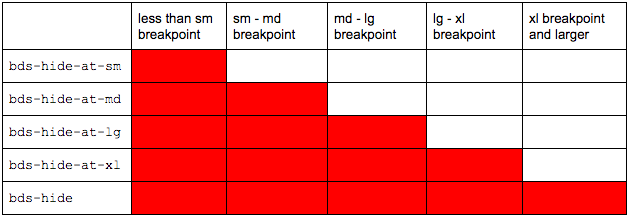
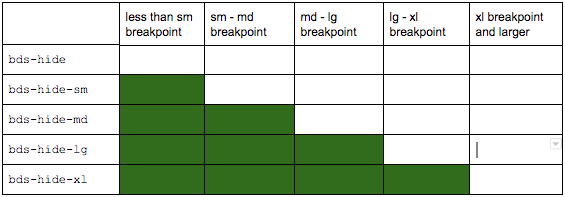
updated show hide classes

diff --git a/design_system/index.html b/design_system/index.html
@@ -182,6 +182,7 @@
                 <u>background</u>: 
                   <ul>
                     <li>bds-bg</li>
+                    <li>bds-bg-lg</li>
                     <li>bds-hov-bg</li>
                   </ul>
 
@@ -652,20 +653,24 @@
                 <u>Hiding</u>: 
                   <ul>
                     <li>bds-hide</li>
-                    <li>bds-hide-at-sm</li>
-                    <li>bds-hide-at-md</li>
-                    <li>bds-hide-at-lg</li>
-                    <li>bds-hide-at-xl</li>
+                    <li>bds-hide-sm</li>
+                    <li>bds-hide-md</li>
+                    <li>bds-hide-lg</li>
+                    <li>bds-hide-xl</li>
                   </ul>
               </div>
 
               <div class="bds-col">
                 <u>Showing</u>: 
-                  <ul><br>
-                    <li>bds-show-at-sm</li>
-                    <li>bds-show-at-md</li>
-                    <li>bds-show-at-lg</li>
-                    <li>bds-show-at-xl</li>
+                  <ul>
+                    <li>bds-block-sm</li>
+                    <li>bds-block-md</li>
+                    <li>bds-block-lg</li>
+                    <li>bds-block-xl</li>
+                    <li>bds-inline-block-sm</li>
+                    <li>bds-inline-block-md</li>
+                    <li>bds-inline-block-lg</li>
+                    <li>bds-inline-block-xl</li>
                   </ul>
               </div>
             </div>
@@ -676,45 +681,45 @@
             <div class="bds-b3 bds-marg-t-xs"><i>re-size browser or use emulator to see how the hide shows work on different breakpoints</i></div>
             <div class="showHideChart bds-txt-11 bds-flex">
               <div class="bds-border-grey-65 bds-flex bds-xy-center">
-                <div class="bds-show-at-sm bds-bg-green bds-txt-white bds-pad-all-xxs">
-                  show-at-sm
+                <div class="bds-hide bds-block-sm bds-bg-green bds-txt-white bds-pad-all-xxs">
+                  bds-hide<br>bds-block-sm
                 </div>
               </div>
               <div class="bds-border-grey-65 bds-flex bds-xy-center">
-                <div class="bds-show-at-md bds-bg-green bds-txt-white bds-pad-all-xxs">
-                  show-at-md
+                <div class="bds-hide bds-block-md bds-bg-green bds-txt-white bds-pad-all-xxs">
+                  bds-hide<br>bds-block-md 
                 </div>
               </div>
               <div class="bds-border-grey-65 bds-flex bds-xy-center">
-                <div class="bds-show-at-lg bds-bg-green bds-txt-white bds-pad-all-xxs">
-                  show-at-lg
+                <div class="bds-hide bds-block-lg bds-bg-green bds-txt-white bds-pad-all-xxs">
+                  bds-hide<br>bds-block-lg
                 </div>
               </div>
               <div class="bds-border-grey-65 bds-flex bds-xy-center">
-                <div class="bds-show-at-xl bds-bg-green bds-txt-white bds-pad-all-xxs">
-                  show-at-xl
+                <div class="bds-hide bds-block-xl bds-bg-green bds-txt-white bds-pad-all-xxs">
+                  bds-hide<br>bds-block-xl
                 </div>
               </div>
             </div>
             <div class="showHideChart bds-txt-11 bds-flex">
                <div class="bds-border-grey-65 bds-flex bds-xy-center">
-                <div class="bds-hide-at-sm bds-bg-orange bds-txt-white bds-pad-all-xxs">
-                  bds-hide-at-sm
+                <div class="bds-hide-sm bds-bg-orange bds-txt-white bds-pad-all-xxs">
+                  bds-hide-sm
                 </div>
               </div>
               <div class="bds-border-grey-65 bds-flex bds-xy-center">
-                <div class="bds-hide-at-md bds-bg-orange bds-txt-white bds-pad-all-xxs">
-                  bds-hide-at-md
+                <div class="bds-hide-md bds-bg-orange bds-txt-white bds-pad-all-xxs">
+                  bds-hide-md
                 </div>
               </div>
               <div class="bds-border-grey-65 bds-flex bds-xy-center">
-                <div class="bds-hide-at-lg bds-bg-orange bds-txt-white bds-pad-all-xxs">
-                  bds-hide-at-lg
+                <div class="bds-hide-lg bds-bg-orange bds-txt-white bds-pad-all-xxs">
+                  bds-hide-lg
                 </div>
               </div>
               <div class="bds-border-grey-65 bds-flex bds-xy-center">
-                <div class="bds-hide-at-xl bds-bg-orange bds-txt-white bds-pad-all-xxs">
-                  bds-hide-at-xl
+                <div class="bds-hide-xl bds-bg-orange bds-txt-white bds-pad-all-xxs">
+                  bds-hide-xl
                 </div>
               </div>
             </div>
@@ -728,18 +733,18 @@
                 <div class="bds-b3"><i>re-size browser or use emulator to see examples</i></div>
                 <div class="bds-marg-b-xs">
                   How do you show a message on mobile but hide on desktop?<br>
-                  <u>Solution</u>: class="bds-hide-at-lg"<br><br>
+                  <u>Solution</u>: class="bds-hide-lg"<br><br>
                   <div class="bds-border-grey-65 bds-pad-all-xxs">
-                    <div class="bds-hide-at-lg bds-bg-red-65 bds-marg-all-sm">
+                    <div class="bds-hide-lg bds-bg-red-65 bds-marg-all-sm">
                       This is hidden on the large breakpoint
                     </div>
                   </div>
 
                   <br>
                   How do you hide a message on mobile, but show on desktop?<br>
-                  <u>Solution</u>: class="bds-hide bds-show-at-lg"<br><br>
+                  <u>Solution</u>: class="bds-hide bds-block-lg"<br><br>
                   <div class="bds-border-grey-65 bds-pad-all-xs">
-                    <div class="bds-hide bds-show-at-lg bds-bg-purple-65 bds-marg-all-sm">
+                    <div class="bds-hide bds-block-lg bds-bg-purple-65 bds-marg-all-sm">
                       This is showing on the large breakpoint
                     </div>
                   </div>

diff --git a/design_system/style.css b/design_system/style.css
@@ -1659,13 +1659,31 @@ h6,
     display: block; }
 
   .bds-hide-at-sm {
-    display: none; } }
+    display: none; }
+
+  .bds-block-sm {
+    display: block !important; }
+
+  .bds-inline-block-sm {
+    display: inline-block !important; }
+
+  .bds-hide-sm {
+    display: none !important; } }
 @media screen and (min-width: 768px) {
   .bds-show-at-md {
     display: block; }
 
   .bds-hide-at-md {
-    display: none; } }
+    display: none; }
+
+  .bds-block-md {
+    display: block !important; }
+
+  .bds-inline-block-md {
+    display: inline-block !important; }
+
+  .bds-hide-md {
+    display: none !important; } }
 @media screen and (min-width: 992px) {
   .bds-show-at-lg {
     display: block; }
@@ -1678,13 +1696,31 @@ h6,
 
   .bds-x-center-at-lg {
     left: 50%;
-    transform: translateX(-50%); } }
+    transform: translateX(-50%); }
+
+  .bds-block-lg {
+    display: block !important; }
+
+  .bds-inline-block-lg {
+    display: inline-block !important; }
+
+  .bds-hide-lg {
+    display: none !important; } }
 @media screen and (min-width: 1200px) {
   .bds-show-at-xl {
     display: block; }
 
   .bds-hide-at-xl {
-    display: none; } }
+    display: none; }
+
+  .bds-block-xl {
+    display: block !important; }
+
+  .bds-inline-block-xl {
+    display: inline-block !important; }
+
+  .bds-hide-xl {
+    display: none !important; } }
 .bds-cursor-pointer {
   cursor: pointer; }
 

diff --git a/design_system/_utility.scss b/design_system/_utility.scss
@@ -79,11 +79,19 @@
 @media screen and (min-width: $sm-bkpt)  {
   .bds-show-at-sm { display: block; }
   .bds-hide-at-sm { display: none; }
+
+  .bds-block-sm { display: block !important; }
+  .bds-inline-block-sm { display: inline-block !important; }
+  .bds-hide-sm{ display: none !important; }
 }
 
 @media screen and (min-width: $md-bkpt)  {
   .bds-show-at-md { display: block; }
   .bds-hide-at-md { display: none; }
+
+  .bds-block-md { display: block !important; }
+  .bds-inline-block-md { display: inline-block !important; }
+  .bds-hide-md{ display: none !important; }
 }
 
 @media screen and (min-width: $lg-bkpt)  {
@@ -94,12 +102,23 @@
     left: 50%;
     transform: translateX(-50%);
   }
+
+
+  .bds-block-lg { display: block !important; }
+  .bds-inline-block-lg { display: inline-block !important; }
+  .bds-hide-lg{ display: none !important; }
 }
 
 @media screen and (min-width: $xl-bkpt)  {
   .bds-show-at-xl { display: block; }
   .bds-hide-at-xl { display: none; }
+
+  .bds-block-xl { display: block !important; }
+  .bds-inline-block-xl { display: inline-block !important; }
+  .bds-hide-xl{ display: none !important; }
 }
+
+
 
 // extra utilities
 .bds-cursor-pointer { cursor: pointer; }
